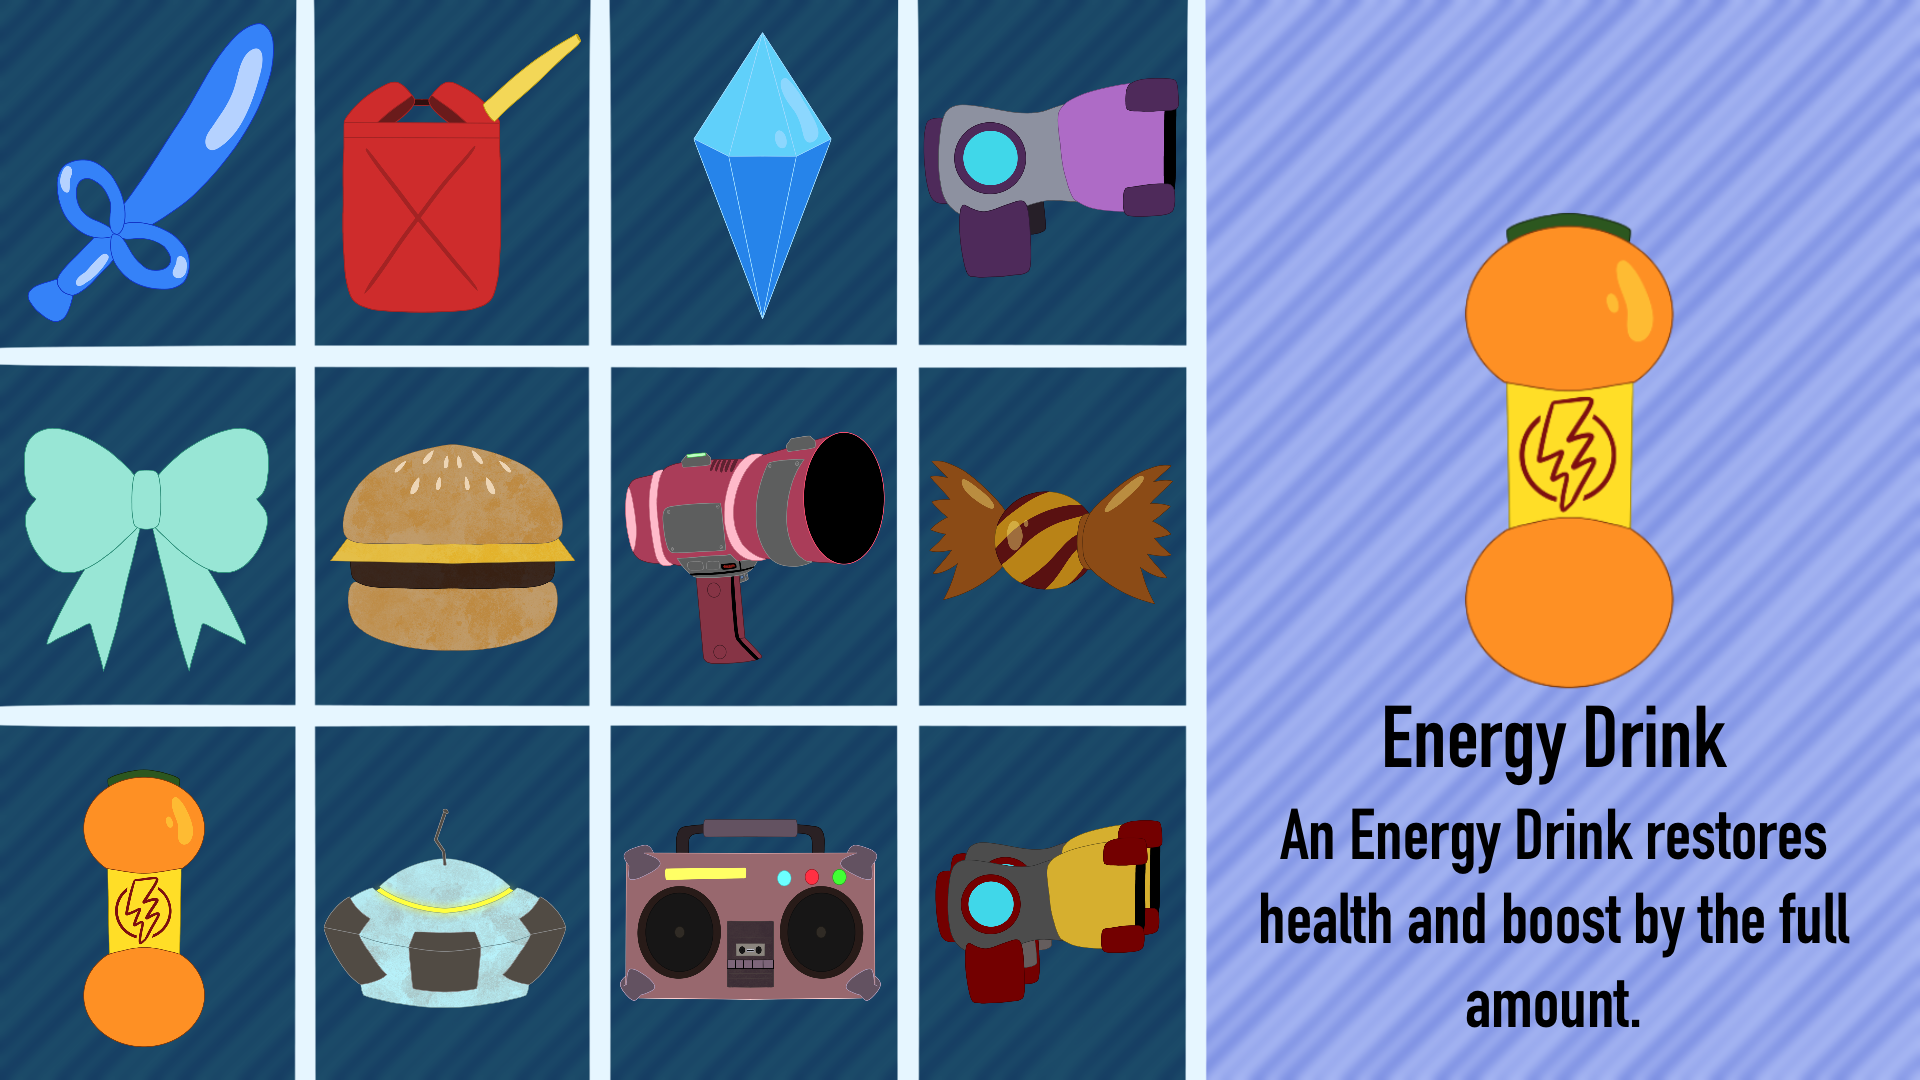
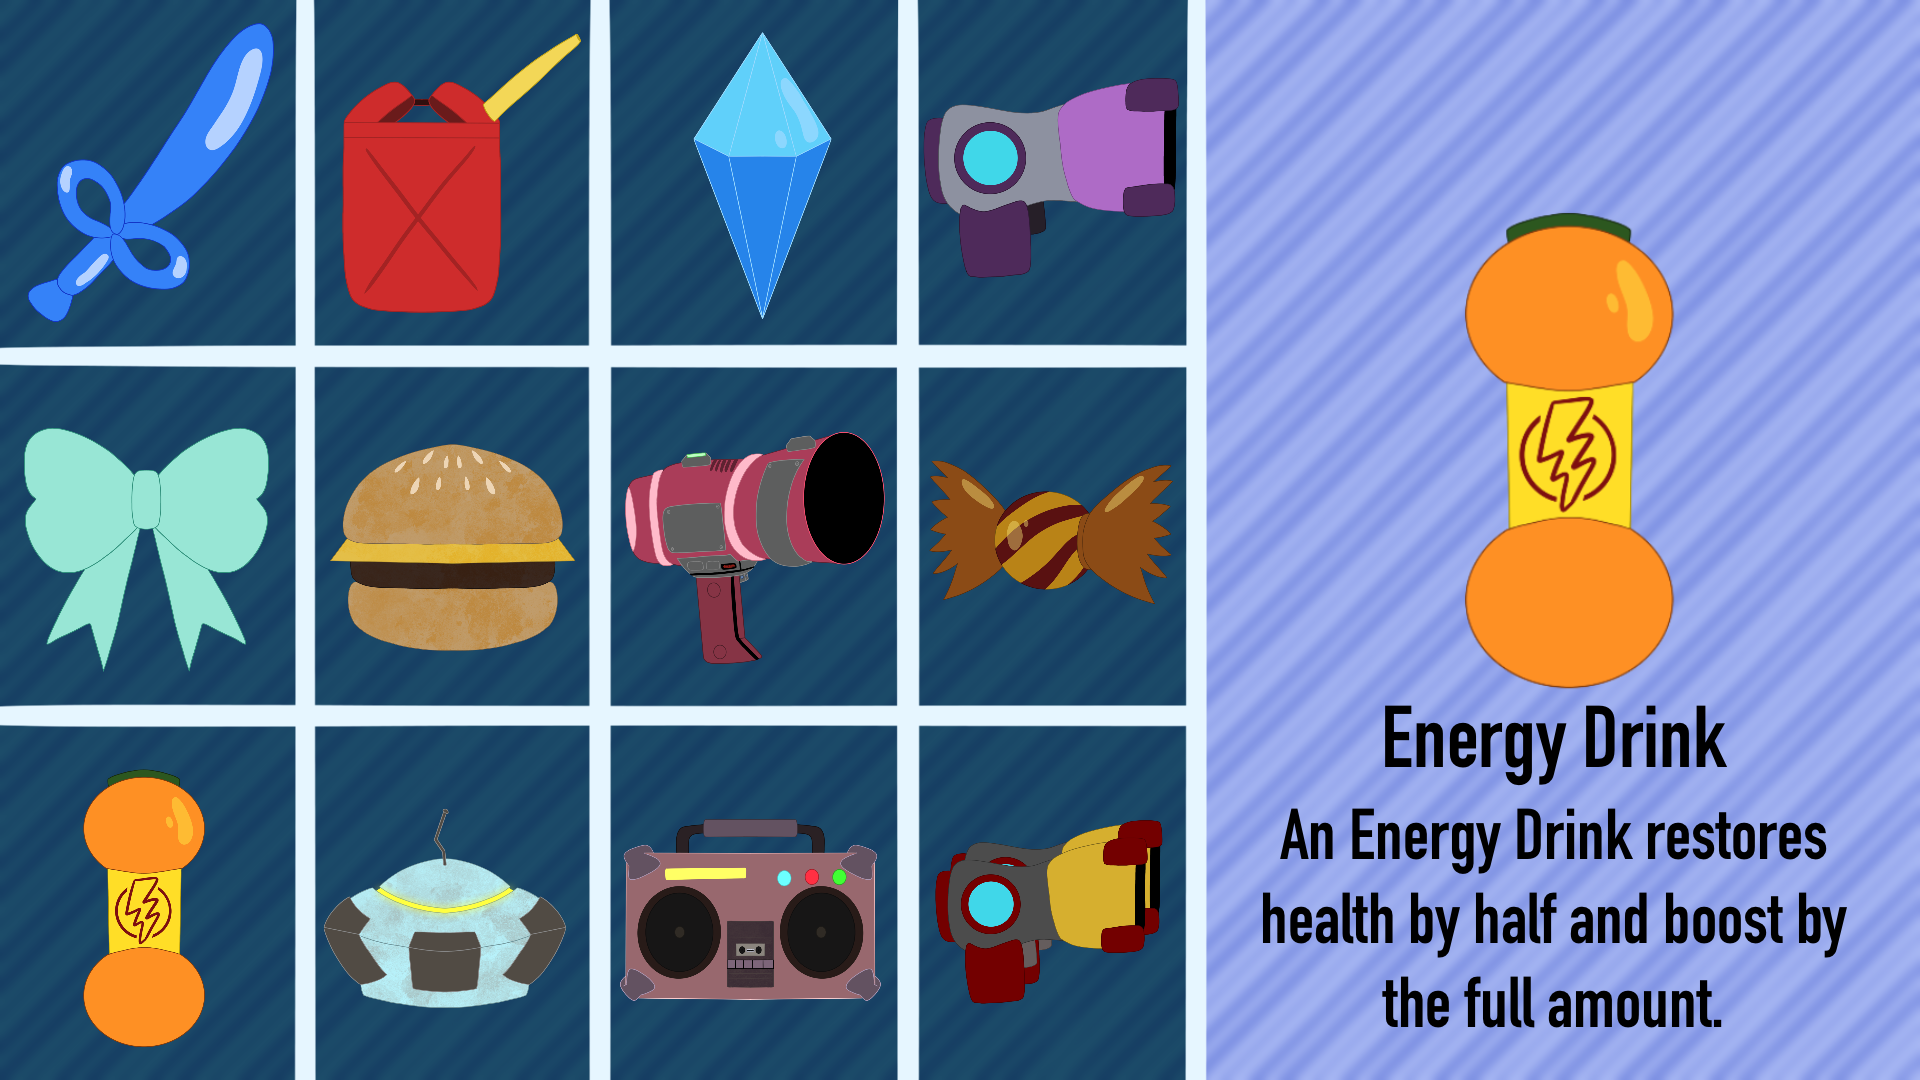
changes

Changed region(s): [[0.6562, 0.825, 0.9688, 0.9778]]

diff --git a/Robot Riot/Assets/_Scripts/DamageSystem/Health.cs b/Robot Riot/Assets/_Scripts/DamageSystem/Health.cs
@@ -7,6 +7,8 @@ using UnityEngine.InputSystem;
 
 public class Health : MonoBehaviour
 {
+    [SerializeField] private PlayerController playerController;
+
     //What health the player should start with
     [SerializeField] private int _startHealth;
 
@@ -72,6 +74,8 @@ public class Health : MonoBehaviour
 
         //set Players health to max
         SetMaxHealth(_startHealth);
+
+        playerController = GetComponent<PlayerController>();
     }
 
     private void Start()
@@ -99,6 +103,7 @@ public class Health : MonoBehaviour
         {
             if (MatchTimer.suddenDeath && respawn)
             {
+                playerController.canChange = true;
                 SuddenDeathRespawn();
             }
 

diff --git a/Robot Riot/Assets/_Scripts/PlayerController.cs b/Robot Riot/Assets/_Scripts/PlayerController.cs
@@ -65,7 +65,7 @@ public class PlayerController : MonoBehaviour
     public bool botMode = false;
     private bool slide = false;
     private bool iced = false;
-    [SerializeField] private bool canChange = true;
+    public bool canChange = true;
 
     public bool isShooting = false; 
     public bool istrapping = false;
